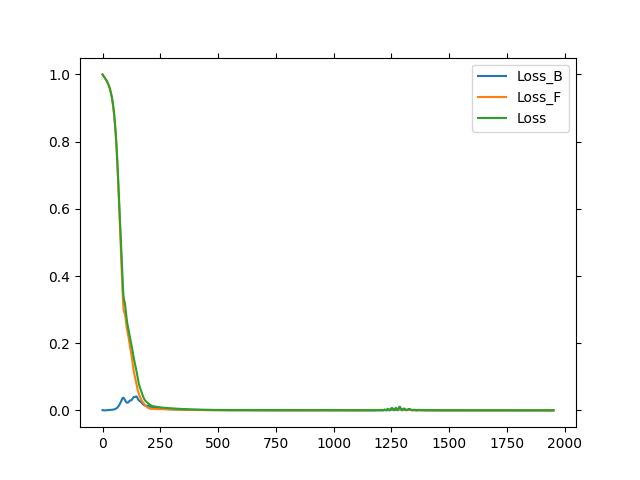
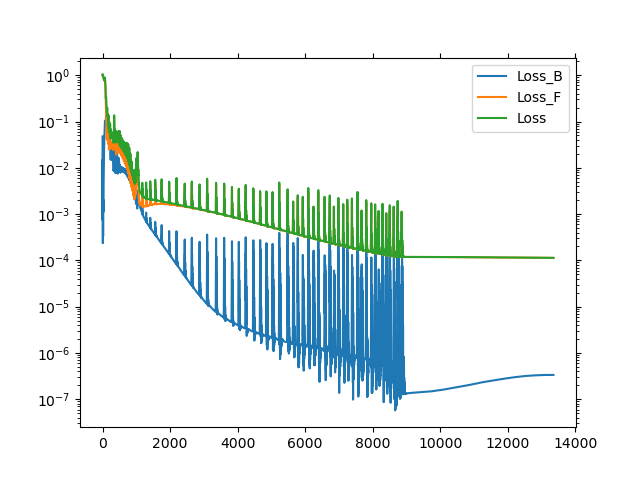
Update ReLU6 as window function

diff --git a/train.py b/train.py
@@ -46,7 +46,7 @@ def train():
     # Hyperparameter
     b_size = 100
     f_size = 10000
-    epochs = 2000
+    epochs = 100000
     w = 20
 
     # Device
@@ -55,16 +55,30 @@ def train():
 
    # Define CombinedPINN
     model = CombinedPINN(2)
+    model = nn.DataParallel(model)
+    model = model.to(device)
     optims = []
-    optims.append(torch.optim.Adam(model.modelA.parameters(), lr=0.001))
-    optims.append(torch.optim.Adam(model.modelB.parameters(), lr=0.001))
-
+    schedulers = []
+    optims.append(torch.optim.Adam(model.module.modelA.parameters(), lr=0.001))
+    optims.append(torch.optim.Adam(model.module.modelB.parameters(), lr=0.001))
+    schedulers.append(torch.optim.lr_scheduler.ReduceLROnPlateau(optims[0], 'min', patience=100, verbose=True))
+    schedulers.append(torch.optim.lr_scheduler.ReduceLROnPlateau(optims[1], 'min', patience=100, verbose=True))
     x_b, u_b = make_training_boundary_data(b_size // 3, x=0.0, u=0.0)
     x_b_2, u_b_2 = make_training_boundary_data(b_size // 3, x=0.5, u=0.0)
     x_b_3, u_b_3 = make_training_boundary_data(b_size // 3, x=1.0, u=0.0)
     x_f, u_f = make_training_collocation_data(f_size // 2, x_lb=0.0, x_rb=0.6)
     x_f_2, u_f_2 = make_training_collocation_data(f_size // 2, x_lb=0.4, x_rb=1.0)
 
+    x_b = x_b.to(device)
+    u_b = u_b.to(device)
+    x_b_2 = x_b_2.to(device)
+    u_b_2 = u_b_2.to(device)
+    x_b_3 = x_b_3.to(device)
+    u_b_3 = u_b_3.to(device)
+    x_f = x_f.to(device)
+    u_f = u_f.to(device)
+    x_f_2 = x_f_2.to(device)
+    u_f_2 = u_f_2.to(device)
 
     loss_save = np.inf
     
@@ -76,12 +90,13 @@ def train():
     for epoch in range(epochs):
         for i in range(element_no):
             optim = optims[i]
+            scheduler = schedulers[i]
             optim.zero_grad()
-            loss_b = torch.zeros(1)
-            loss_f = torch.zeros(1)
+            loss_b = torch.zeros(1).to(device)
+            loss_f = torch.zeros(1).to(device)
             loss_func = nn.MSELoss()
 
-            loss_sum = torch.zeros(1)
+            loss_sum = torch.zeros(1).to(device)
 
             if i == 0:
                 loss_b += loss_func(model(x_b), u_b) * 1000
@@ -107,6 +122,7 @@ def train():
             loss.backward()
 
             optim.step()
+            scheduler.step(loss)
 
             with torch.no_grad():
                 model.eval()
@@ -127,7 +143,7 @@ def train():
         if epoch % 50 == 1:
             draw()
             
-
+    print("Elapsed Time: {} s".format(time.time() - since))
     print("DONE")
 
 def exact(x):
@@ -140,39 +156,44 @@ def draw_convergence(epoch, loss_b, loss_f, loss, id):
     plt.plot(x, np.array(loss_b), label='Loss_B')
     plt.plot(x, np.array(loss_f), label='Loss_F')
     plt.plot(x, np.array(loss), label='Loss')
+    plt.yscale('log')
     plt.legend()
     plt.savefig('./figures/convergence_{}.png'.format(id))
 
 def draw():
     model = CombinedPINN(2)
+    model = nn.DataParallel(model)
+    model.cuda()
     model_path = "./models/cpinn.data"
     state_dict = torch.load(model_path)
     model.load_state_dict(state_dict)
 
     
-    x_test = np.arange(10001)/10000
-    x_test = torch.from_numpy(x_test).unsqueeze(0).T.type(torch.FloatTensor)
+    x_test_plt = np.arange(10001)/10000
+    x_test = torch.from_numpy(x_test_plt).unsqueeze(0).T.type(torch.FloatTensor).cuda()
     
     plt.cla()
 
-    pred = model(x_test).detach().numpy()
+    pred = model(x_test).cpu().detach().numpy()
 
-    ex = exact(x_test).detach().numpy()
+    ex = exact(x_test).cpu().detach().numpy()
 
-    plt.plot(x_test, pred, 'b', label='CPINN')
+
+
+    plt.plot(x_test_plt, pred, 'b', label='CPINN')
     # plt.plot(x_test, ex, 'r--', label='Exact')
     plt.legend()
     plt.savefig('./figures/test.png')
 
     plt.cla()
-    plt.plot(x_test, model.out_A(x_test).detach().numpy(), 'b', label='A')
-    plt.plot(x_test, model.out_B(x_test).detach().numpy(), 'r--', label='B')
+    plt.plot(x_test_plt, model.module.out_A(x_test).cpu().detach().numpy(), 'b', label='A')
+    plt.plot(x_test_plt, model.module.out_B(x_test).cpu().detach().numpy(), 'r--', label='B')
     plt.legend()
     plt.savefig('./figures/separate.png')
 
     plt.cla()
-    plt.plot(x_test, window(x_test, 0.4, 0.6, i=0), 'b', label='A')
-    plt.plot(x_test, window(x_test, 0.4, 0.6, i=1), 'r--', label='B')
+    plt.plot(x_test_plt, window(x_test, 0.4, 0.6, i=0).cpu().detach().numpy(), 'b', label='A')
+    plt.plot(x_test_plt, window(x_test, 0.4, 0.6, i=1).cpu().detach().numpy(), 'r--', label='B')
     plt.legend()
     plt.savefig('./figures/window.png')
 

diff --git a/modules/pinn.py b/modules/pinn.py
@@ -9,12 +9,12 @@ class PINN(nn.Module):
 
         self.id = id
 
-        self.hidden_layer1      = nn.Linear(1, 20)
-        self.hidden_layer2      = nn.Linear(20, 20)
-        self.hidden_layer3      = nn.Linear(20, 20)
-        # self.hidden_layer4      = nn.Linear(20, 20)
-        # self.hidden_layer5      = nn.Linear(20, 20)
-        self.output_layer       = nn.Linear(20, 1)
+        self.hidden_layer1      = nn.Linear(1, 40)
+        self.hidden_layer2      = nn.Linear(40, 40)
+        self.hidden_layer3      = nn.Linear(40, 40)
+        # self.hidden_layer4      = nn.Linear(40, 40)
+        # self.hidden_layer5      = nn.Linear(40, 40)
+        self.output_layer       = nn.Linear(40, 1)
 
     def forward(self, x):
         input_data     = x
@@ -34,12 +34,15 @@ def sigmoid(x):
     return 1 / (1 + torch.exp(-x))
 
 def window(x, a, b, i):
-    act_func = nn.ReLU()
+    act_func = nn.ReLU6()
     # return sigmoid((x - a) / 0.01) * sigmoid((b - x) / 0.01)
     if i == 1:
-        return act_func((x - a) / 100)
+        return act_func((x - a) * 6 / (b - a)) / 1000
+        # return act_func((x - a) / 100)
     elif i == 0:
-        return act_func((b - x) / 100)
+        return act_func((b - x) * 6 / (b - a)) / 1000
+
+        # return act_func((b - x) / 100)
 
 # def window_test():
 #     x_test = np.arange(100) / 50

diff --git a/modules/generate_data.py b/modules/generate_data.py
@@ -2,7 +2,7 @@ import torch
 import numpy as np
 import torch.autograd as autograd
 
-def make_training_boundary_data(b_size, x=0.0, u=0.0, seed=1004, x_b=None, u_b=None):
+def make_training_boundary_data(b_size, x=0.0, u=0.0, seed=1004, x_b=None, u_b=None, device=None):
     np.random.seed(seed)
 
     x_b_new = np.ones((b_size, 1)) * x
@@ -14,6 +14,7 @@ def make_training_boundary_data(b_size, x=0.0, u=0.0, seed=1004, x_b=None, u_b=N
     
     x_b = torch.cat((x_b, x_b_new), axis=1) if x_b else x_b_new
     u_b = torch.cat((u_b, u_b_new), axis=1) if u_b else u_b_new
+
 
     return x_b, u_b
 
